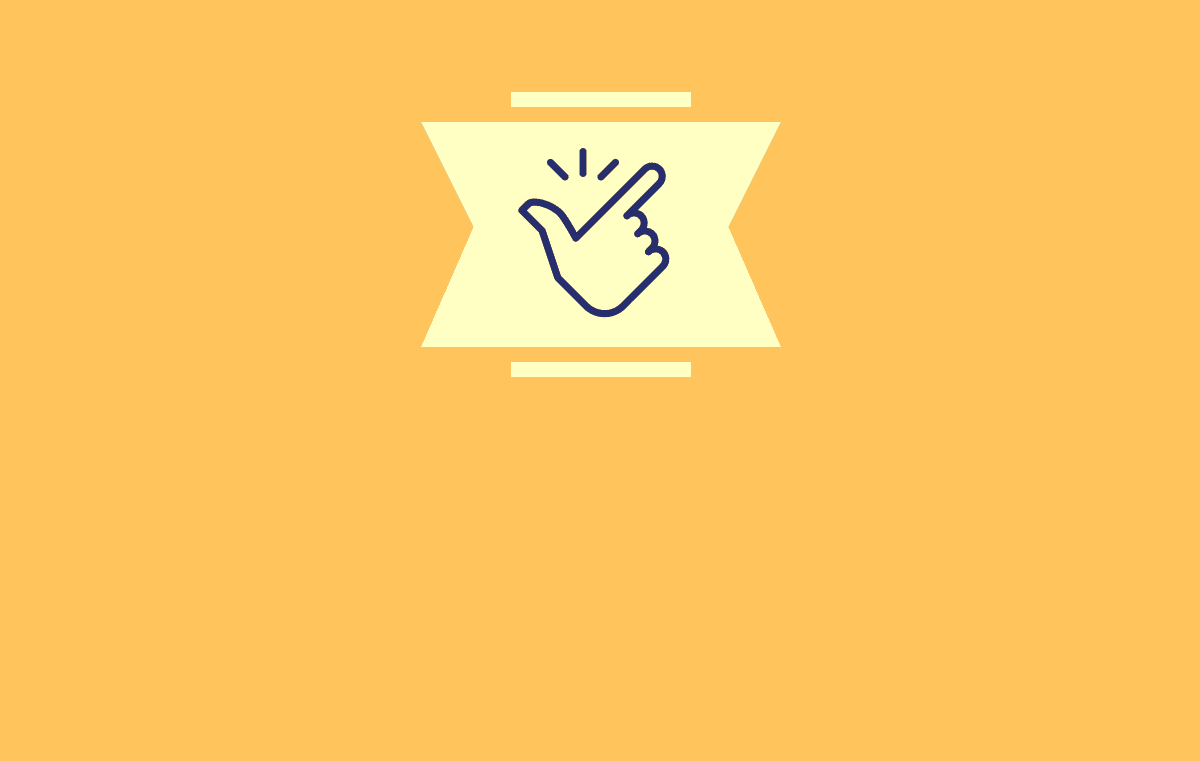
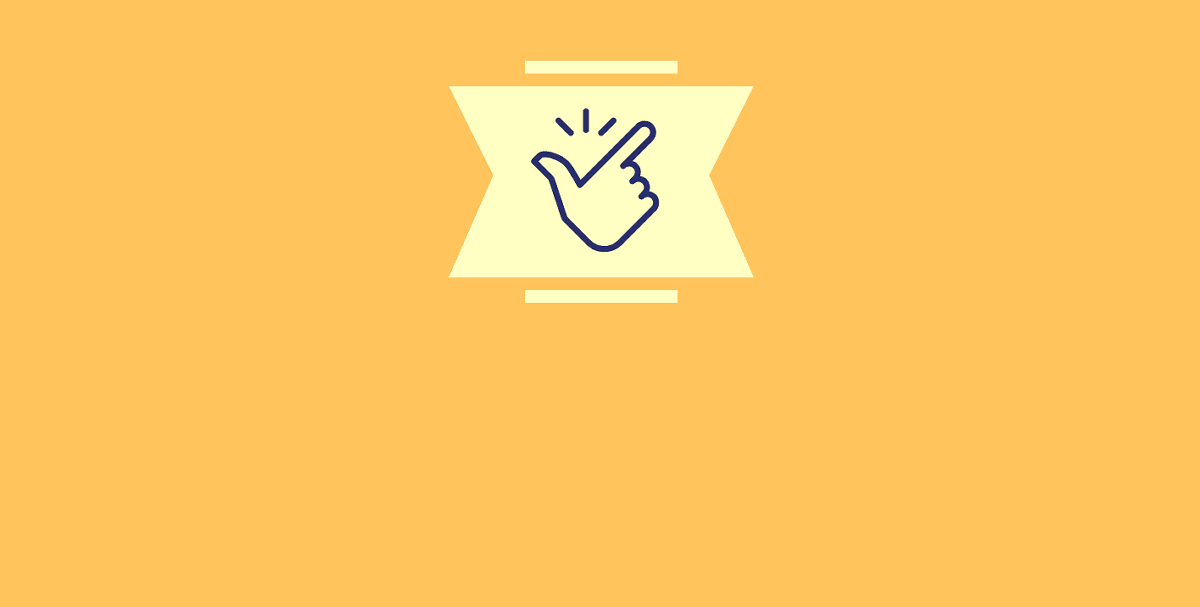
fix carousel

Changed region(s): [[0.3392, 0.089, 0.6475, 0.5041]]

diff --git a/app/assets/stylesheets/tops.scss b/app/assets/stylesheets/tops.scss
@@ -14,9 +14,19 @@
 #link_to {
     font-size: 1.7vw;
 }
-.container {
-    padding-top: 50px;
-    margin-top: 22px;
+
+/* カルーセル */
+body{
+    margin: 0px;
+    padding: 0px;
+}
+.main {
+    position: fixed;
+    top: 80px;
+    bottom: 0px;
+    left: 0px;
+    right: 0px;
+    overflow-y: auto;
 }
 @media (min-width: 980px){
     .carousel-caption {
@@ -27,9 +37,7 @@
     .carousel-caption {
         top: 40%;
     }
-    .container {
-        margin-top: 17px;
-    }
+
     .carousel-h1 {
         font-size: 4vw;
         padding-top: 10px;
